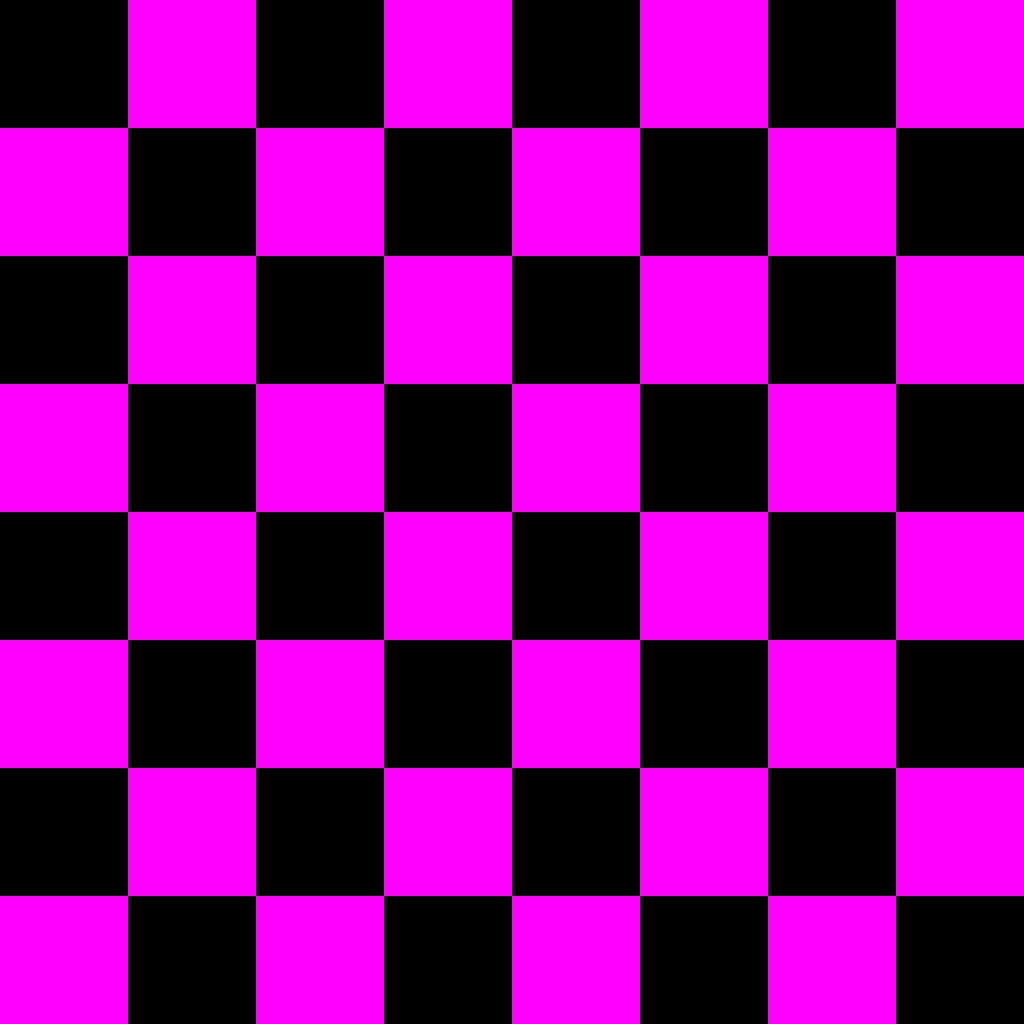
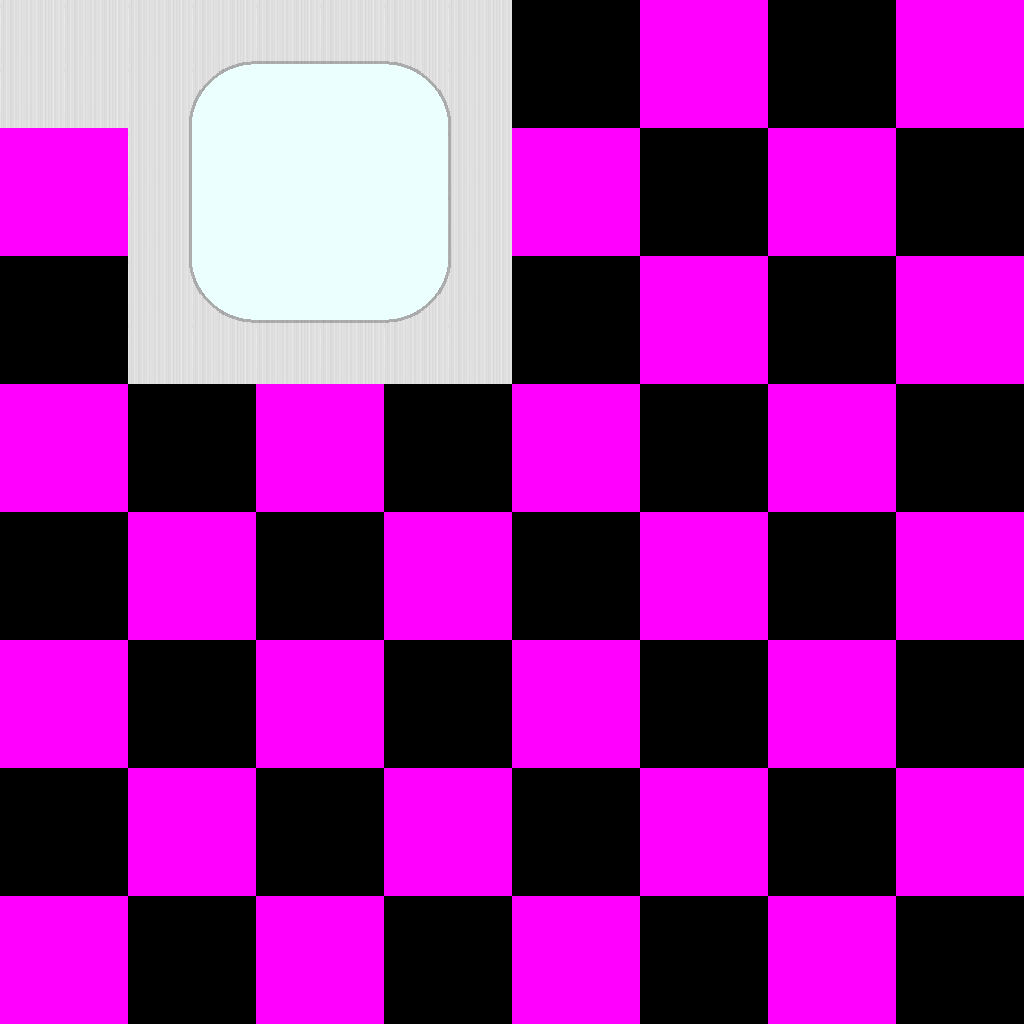
Made main menu have nice buttons

Changed region(s): [[0.0, 0.0, 0.5, 0.375]]

diff --git a/Graphics1/Menu.cpp b/Graphics1/Menu.cpp
@@ -1,10 +1,11 @@
 #include "Menu.h"
 #include "LevelSelect.h"
+#include "GradButton.h"
 
 #define MENU_BUTTON_HEIGHT 50
 
 Menu::Menu() {
-	Button* play = new Button();
+	Button* play = new GradButton();
 	play->setX(sWidth / 2);
 	play->setY(250);
 	play->setWidth(400);
@@ -15,7 +16,7 @@ Menu::Menu() {
 	};
 	play->setCallback(playCall);
 	buttons.push_back(play);
-	Button* editor = new Button();
+	Button* editor = new GradButton();
 	editor->setX(sWidth / 2);
 	editor->setY(190);
 	editor->setWidth(400);
@@ -26,7 +27,7 @@ Menu::Menu() {
 	};
 	editor->setCallback(editorCall);
 	buttons.push_back(editor);
-	Button* settings = new Button();
+	Button* settings = new GradButton();
 	settings->setX(sWidth / 2);
 	settings->setY(130);
 	settings->setWidth(400);
@@ -37,7 +38,7 @@ Menu::Menu() {
 	};
 	settings->setCallback(settingsCall);
 	buttons.push_back(settings);
-	Button* quit = new Button();
+	Button* quit = new GradButton();
 	quit->setX(sWidth / 2);
 	quit->setY(70);
 	quit->setWidth(400);
@@ -92,11 +93,15 @@ void Menu::draw(double ex) {
 	glEnd();
 	glDisable(GL_TEXTURE_2D);
 	glPopMatrix();
-	//TODO: Resize + reposition buttons
+	int i = 0;
+	int n = buttons.size();
 	for (Button* b : buttons) {
-		b->setX(sWidth / 2);
-		b->setWidth((int) sWidth * 0.9);
-		b->draw();
+		int h = sHeight / 12;
+		b->setWidth((int) sWidth * 0.5 + h * i);
+		b->setY(h * (n - i));
+		b->setHeight(h*0.9);
+		i++;
+		b->draw(ex);
 	}
 }
 

diff --git a/Graphics1/GradButton.cpp b/Graphics1/GradButton.cpp
@@ -1,0 +1,35 @@
+#include "GradButton.h"
+
+
+
+GradButton::GradButton() {
+}
+
+
+GradButton::~GradButton() {
+}
+
+
+// Draws the button ex seconds after last update
+void GradButton::draw(double ex) {
+
+	//TODO: Hover animation
+	glBegin(GL_POLYGON);
+	glColor4ub(33, 179, 242, 150);
+	glVertex2i(sWidth, y - height / 2);
+	glVertex2i(sWidth, y + height / 2);
+	glColor4ub(33, 179, 242, 10);
+	glVertex2i(sWidth - width + height, y + height / 2);
+	glVertex2i(sWidth - width, y - height / 2);
+	glEnd();
+	glColor3ub(255, 255, 255);
+	freetype::print(font, (float)(sWidth - width + height), (float)y - font.h * 0.375f, label.c_str());
+}
+
+// Called when the left mouse button is clicked
+void GradButton::mouseDown(int x, int y) {
+	float h = height*0.5f;
+	if (x >= sWidth - width && y >= this->y - h && y <= this->y + h) {
+		(*callback)();
+	}
+}

diff --git a/Graphics1/Button.cpp b/Graphics1/Button.cpp
@@ -108,6 +108,10 @@ void Button::draw() {
 	freetype::print(font, (float)x - width * 0.5f + BUTTON_PADDING, (float)y - font.h * 0.375f, label.c_str());
 }
 
+void Button::draw(double ex) {
+	draw();
+}
+
 
 // Sets the function called when the button is pressed
 void Button::setCallback(void (*callback)()) {

diff --git a/Graphics1/GradButton.h b/Graphics1/GradButton.h
@@ -1,0 +1,13 @@
+#pragma once
+#include "Button.h"
+class GradButton:
+	public Button {
+public:
+	GradButton();
+	~GradButton();
+	// Draws the button ex seconds after last update
+	void draw(double ex);
+	// Called when the left mouse button is clicked
+	void mouseDown(int x, int y);
+};
+

diff --git a/Graphics1/Button.h b/Graphics1/Button.h
@@ -25,7 +25,8 @@ public:
 	// Gets the label of the button
 	std::string getLabel();
 	// Draw the button
-	void draw();
+	virtual void draw();
+	virtual void draw(double ex);
 protected:
 	int x;
 	int y;
